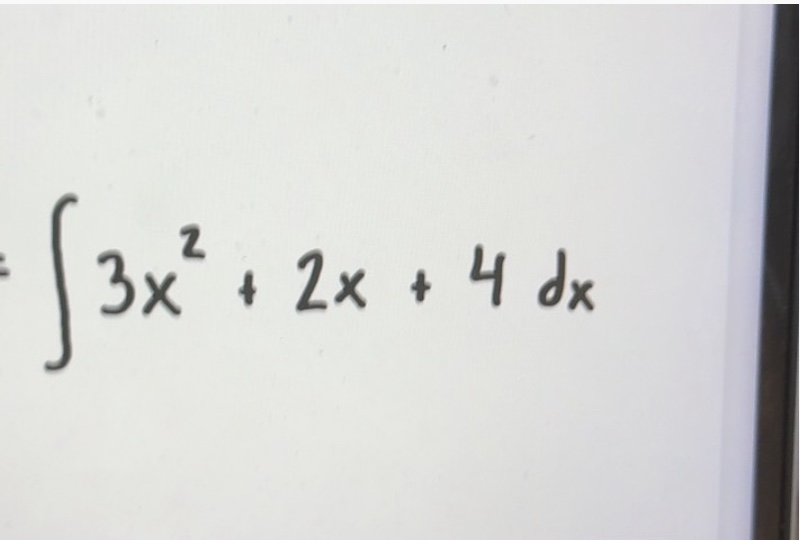
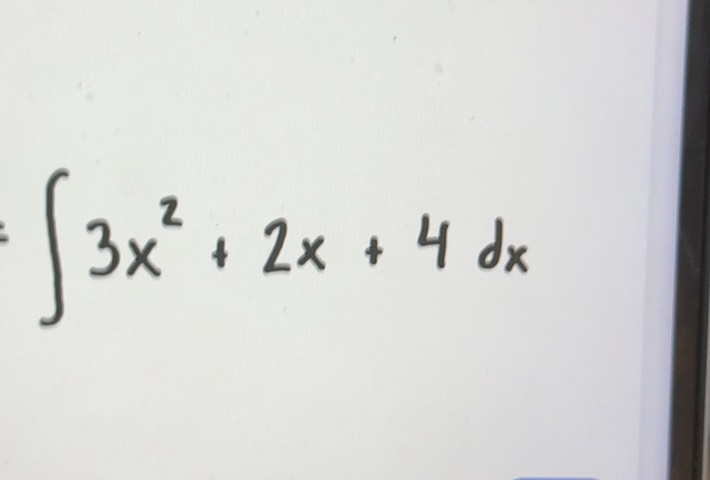
Write down what was found, and what it was found with
ENGINEERING-NOTES gains three sections: why a label and a question being
the same type is what let a photograph of an integral produce a lesson
about flatbed scanners, why the notation converter is checked by KaTeX
now instead of reviewed by a person, and what the camera arm measures
that the typed arms cannot.

evaluation.md gains the camera method, and an admission: the self-hosted
arm went out with the hosted backend and nothing noticed, so a published
three-arm comparison sat there for a week with no runnable method behind
it.

docs/evaluation-camera.md is report.py's stdout over
docs/eval-records/camera/, which now holds the graded Mac run and the
device transcript. check.sh diffs it like the other two, and asserts that
every camera fixture has both an image and its ground truth -- a picture
without ground truth is not a measurement, and a manifest entry without
its picture is a run that silently skips.

diff --git a/docs/ENGINEERING-NOTES.md b/docs/ENGINEERING-NOTES.md
@@ -155,6 +155,110 @@ The retry also stopped swallowing cancellation. `try? await Task.sleep` meant a
 user who navigated away still paid for the retry; it is `try await` now, so
 leaving the screen stops the work.
 
+## A label is not a question, and `String` cannot tell you which one it is
+
+The hardest bug in this repository to date presented as a model that had gone
+mad. A photograph of `∫ 3x² + 2x + 4 dx` produced a lesson titled *Understanding
+Scanning*, a topic line reading `SCANNING`, and five suggested videos called
+"Scanning", from Khan Academy and 3Blue1Brown. Nothing was wrong with the model.
+It was asked about the word.
+
+The app had four strings in play for one photographed solve:
+
+| string | where | what it was |
+|---|---|---|
+| `"Scanning..."` | `ContentView` | what the header said while the camera closed |
+| `"[Scanned Image]"` | the results view model | a sentinel other views compared against |
+| a model-written title | a detached task, seconds later | a *label* for the history list |
+| the text Vision read | inside a provider, per request | **the only one that was a question** |
+
+Every one of them was a `String`, so every one of them fitted wherever a problem
+was expected. Three of the four reached a prompt.
+
+The route was history. `Problem` had one text field, it held whichever label was
+current when the student backed out, and re-opening the entry set the solve's
+input to it -- so any tab that had not been generated the first time was
+generated from the label. The store on the phone this was found on has **six of
+nine rows carrying a label where the question should be**: one `"Scanning..."`,
+three `"Scanned Problem"` (the fallback when recognition failed), and two
+model-written titles. The last of those is the worst kind, because a lesson about
+"Augmented Matrix Vector Solution" is *plausible*, and nobody would photograph it
+and file a bug.
+
+Sanitising the strings would have been the obvious fix and the wrong one. What
+the code needed was for a label not to be the same *type* as a question:
+
+```swift
+struct Solve {
+    let id: UUID
+    let question: String     // the only string a prompt is ever built from
+    let source: Source       // .typed | .photograph(jpeg: Data)
+}
+```
+
+There is one initialiser, `SolveBuilder` is the only thing that calls it, and
+every prompt-taking API takes the question off it. `ProblemInput` is gone, so is
+`SightedProvider`, and so is image input on the provider protocol: after the
+builder there is no unresolved input left in the system. A display string now has
+no path into a prompt that type-checks.
+
+Two things fell out that were not the point and are worth more than they cost.
+Recognition moved *above* the four surfaces instead of below them, so a
+photograph is read once instead of five times -- the memo meant to prevent that
+had never once hit, because the app built a new wrapper per request. And a
+photograph nothing can be read from now fails on the camera screen, once, where
+taking another picture is the fix, rather than four times on a results screen the
+student has already been pushed to.
+
+## The converter is checked now, not reviewed
+
+`MathNotation` rewrites the notation Apple's on-device model writes -- it returns
+correct maths in the wrong form, `∫[0,1] 3x^2 dx`, and no amount of prompt
+wording changes that. It has also produced three separate corruption bugs:
+`\sqrt16` (the radical losing its argument), `\sine` (a function-name rule
+firing inside a word), and `\intx` (a control word with nothing terminating it).
+All three shipped. All three were found by a person looking at red text on a
+phone.
+
+The third one is instructive, because it was thirty bugs rather than one. The
+symbol table substituted Unicode operators for LaTeX commands with
+`replacingOccurrences`, and a LaTeX control word runs to the first non-letter --
+so `πr²` became `\pir^{2}`, `2πn` became `2\pin`, `Σx_i` became `\Sigmax_{i}`,
+and every entry in the table had the same fault. The quietest of them *rendered*:
+`∈f(x)` became `\inf(x)`, and `\inf` is a real command, the infimum, so the
+wrong symbol was drawn with nothing red to notice.
+
+And here is the part that decided the fix. **KaTeX renders every one of those
+Unicode characters as it stands.** `∫ x^{n} dx`, `πr^{2}`, `∑_{n=1}^{5} n`, `θ`,
+`∞`, `⋅`, `→`, `Δx`, `∂f/∂x` all parse under `throwOnError: true`. The converter
+was taking strings that rendered and producing strings that did not.
+
+A converter whose job is to improve something that already works has to be
+*checked*, and the thing that can check it is the renderer. So KaTeX is now the
+arbiter, in three places:
+
+- **`swift test`.** `KaTeXOracle` loads the app's own `katex.min.js` into a
+  `JSContext` -- `renderToString` needs no DOM -- and asserts two properties: that
+  every symbol in the table survives a letter after it, and that **no conversion
+  breaks a string that already rendered**, over the maths the model actually wrote
+  in the published records. Eight milliseconds to load the bundle, half a
+  millisecond a string. The second property found two live regressions in strings
+  from a shipped run.
+- **The page.** Display maths travels in a `data-tex` attribute on an empty
+  element and is typeset explicitly with `throwOnError: true`. When it throws, the
+  element becomes the source string in monospace with "could not be typeset --
+  shown as written" beneath it. Red text was the wrong failure mode: it reads as
+  *the maths* being wrong rather than *the rendering* having failed, and a student
+  cannot tell those apart.
+- **The harness.** Records carry each maths field twice, before and after
+  conversion, index-aligned, so `converterRegressions` is a column: how many
+  strings KaTeX accepted before we touched them and rejected after. All three
+  historical bugs would have appeared in it on the run that introduced them.
+
+The boundary bug is fixed too -- one scan, and a space after a command when a
+letter follows -- but that is no longer the thing standing between a student and
+red text.
+
 ## OCR runs before the network, and that is the point
 
 `OCRService` uses Vision's `VNRecognizeTextRequest` on device. The order matters
@@ -217,8 +321,47 @@ worked, and it was unreproducible by anyone else and broke the moment a layout
 moved. A launch argument is not clever, and it regenerates every image in the
 README with one command.
 
+## The camera path, finally measured
+
+Every published number in this repository came from typed text. The model is the
+same on both paths; what reaches it is not, and nothing recorded what Vision made
+of a photograph or checked it against anything. That is how a picture of an
+integral produced a lesson about flatbed scanners with every table still green.
+
+There are two arms now, because a Mac is not a phone and this repository has
+already been caught believing one about the other.
+
+`solvr-eval --set camera` reads photographs with their contents written down
+beside them, once each, through the same `SolveBuilder` the app uses, and then
+asks the graded surfaces about what came out. Recognition gets its own record:
+"the photo was misread" and "the model was wrong" are different failures with
+different fixes, and a run that averages over them is measuring neither.
+
+`-SolvrCameraSelfTest YES` does the same on the phone and one thing more. It
+builds the real page for each surface with the real `HTMLBuilder`, loads it into a
+real `WKWebView` with the vendored KaTeX, and reports how many strings the page
+could not typeset. A Node check can tell you a string parses; only that can tell
+you the page drew it. Fixtures are pushed into the app's container rather than
+bundled, so a Release build measures Release code with no test data compiled into
+it.
+
+The first fixture already says something the typed arm never could. Vision --
+both on a Mac and on the phone -- reads the handwritten integral sign as a bullet
+and drops the exponent, so `∫ 3x² + 2x + 4 dx` reaches the model as
+`• 3x + 2x + 4 dx`. The model then answers *that* problem, carefully, and gets it
+right for the question it was given. All four surfaces were asked the same thing
+and every display string typeset. **On this path the dominant failure is
+recognition, and it was invisible.**
+
+Which is why the app now shows the recognised text under the photograph. It is
+the only thing a student can check, and it is byte-for-byte what every tab was
+asked about.
+
 ## What is not solved
 
+- **Handwriting.** Vision reads printed problems well and handwriting unevenly,
+  and the measured case above is not a near miss -- an integral sign became a
+  bullet. Showing the student what was read is a mitigation, not a fix.
 - **No verification of the maths.** The app renders what the model says. A wrong
   step is displayed with the same confidence as a right one, and detecting that
   automatically is a genuinely hard problem, not an oversight.

diff --git a/docs/evaluation.md b/docs/evaluation.md
@@ -118,6 +118,39 @@ was committed, rather than trusted from the author.
 
 43 is small. It is reported as 43 rather than padded.
 
+## Photographs, which are a different measurement
+
+`--set camera` runs a set of photographs with their contents written down beside
+them, in `docs/fixtures/camera/`. It exists because every number above this line
+is about **typed** text, and the app's front door is a camera.
+
+The model is the same on both paths. What reaches it is not: Apple's on-device
+model takes no image input at all, so a photograph becomes text first, and that
+step had never been measured or even recorded. A picture of `∫ 3x² + 2x + 4 dx`
+produced a lesson about flatbed scanners while every table in this document
+stayed green.
+
+Three things are measured that the typed arms cannot be:
+
+- **What was read.** `expectedText` in the manifest is what a *correct reading*
+  gives, not what the model should answer, so recognition and solving are graded
+  separately. They are different failures with different fixes.
+- **Whether every surface of one solve was asked the same thing.** That is now a
+  property of a valid run rather than something to hope for, because the bug this
+  arm exists because of was four surfaces being asked four different questions.
+- **What the page drew.** The device arm builds each surface's real HTML, loads
+  it into a real `WKWebView` with the vendored KaTeX, and counts the strings it
+  could not typeset. Rendering a string in Node tells you it parses; only that
+  tells you the app drew it.
+
+One fixture in the set must *fail*: a photograph with nothing legible in it has
+to produce one honest sentence before a results screen exists. A harness that
+only measured the pictures that work would not notice if that stopped being true.
+
+Results: [evaluation-camera.md](evaluation-camera.md), from
+[docs/eval-records/camera/](eval-records/camera/), including the device
+transcript.
+
 ## The comparison this is set up to run
 
 The interesting axis is not "hosted versus local". It is **constrained versus
@@ -161,6 +194,18 @@ comparison, published in full, with no data behind it. Anyone quoting Solvr as
 evidence that on-device beats hosted — or loses to it — is quoting something that
 was never measured.
 
+**The self-hosted arm was very nearly lost the same way, and for a duller
+reason.** It went out with the hosted backend, and `compare3.sh` and `arm.sh`
+carried on calling `solvr-eval --backend local` with flags that had stopped
+existing — so the three-arm comparison this repository publishes had become
+unreproducible without anything saying so. A published result whose method is no
+longer in the repository is a number with no run behind it, which is the one
+thing this project is not supposed to have. The arm is back, in the `solvr-eval`
+target only, with the prompts recovered verbatim because the LoRA was distilled
+against those exact strings. It is not in the app and cannot be: `tools/check.sh`
+asserts that the network client appears nowhere under `Sources/` except that one
+directory, and that the app and the shipped library contain none.
+
 The first local three-arm comparison was also void, and the reason is worth
 recording: a port race left all three arms talking to the same server, so all
 three "models" produced 129 byte-identical outputs. Byte-identical answers across
@@ -198,6 +243,15 @@ process.
 ## Running it
 
 ```sh
+# The camera path. Needs no key and no network; the photographs are in the repo.
+swift run --package-path Packages/SolvrCore solvr-eval \
+  --backend on-device --set camera --images docs/fixtures/camera \
+  --out eval-camera.jsonl
+tools/eval/grade.sh eval-camera.jsonl
+
+# The same on the phone, which is the only authority on the phone. See
+# docs/fixtures/camera/README.md for the three devicectl lines.
+
 # Free: no key, no network, no spend. Validates the whole pipeline.
 cd Packages/SolvrCore && swift run solvr-eval --backend demo --out ../../eval-demo.jsonl
 

diff --git a/docs/evaluation-camera.md b/docs/evaluation-camera.md
@@ -1,0 +1,98 @@
+<!-- Generated by tools/eval/report.py from docs/eval-records/*.graded.jsonl.
+     Regenerate:  python3 tools/eval/report.py docs/eval-records/*.graded.jsonl
+     Do not edit by hand: this file is stdout, and a diff is the test. -->
+
+## Schema compliance, per surface
+
+Fraction of responses that decoded with nothing done to them -- no fence
+removed, no prose trimmed, no LaTeX escape repaired, no renormalisation.
+`n/a` is a backend that never produces a string to repair: guided
+generation returns a typed value, so the ladder is unreachable.
+
+| backend | steps | lesson | formulas |
+|---|---|---|---|
+| `macos-vision + apple-on-device` | n/a | n/a | n/a |
+
+## What had to be done, when it was not clean
+
+| backend | surface | fenced | prose sliced | escapes repaired | renormalised | failed to parse |
+|---|---|---|---|---|---|---|
+| `macos-vision + apple-on-device` | steps | 0 | 0 | 0 | 0 | 0 |
+| `macos-vision + apple-on-device` | lesson | 0 | 0 | 0 | 0 | 0 |
+| `macos-vision + apple-on-device` | formulas | 0 | 0 | 0 | 0 | 0 |
+
+## Maths correctness (final answer, symbolic equivalence)
+
+`undecidable` means the grader could not parse one side and the case
+needs a human, not that the answer was wrong.
+
+| backend | correct | wrong | undecidable |
+|---|---|---|---|
+| `macos-vision + apple-on-device` | 0% (0/1) | 1 | 0 |
+
+## Completeness: how much came back
+
+Median items per response -- steps in a solution, formulas listed,
+sections in a lesson. Schema compliance is blind to this: a one-step
+solution that decodes cleanly scores a perfect 100%, so a fine-tune that
+learns to answer tersely would look like an improvement.
+
+| backend | steps | lesson sections | formulas | thin (<=1 step) |
+|---|---|---|---|---|
+| `macos-vision + apple-on-device` | 3 | 2 | 4 | 0/1 |
+
+## LaTeX that renders
+
+Rendered with KaTeX 0.16.21 -- the version the app loads -- and
+`throwOnError: true`. The app itself renders with `throwOnError: false`,
+so in production these failures are silent.
+
+| backend | strings checked | render | fail |
+|---|---|---|---|
+| `macos-vision + apple-on-device` | 9 | 100% (9) | 0 |
+
+## What the notation converter did to maths that was already valid
+
+Every maths field is recorded twice: as the model wrote it, and as
+`MathNotation` rewrote it for display. This counts the strings KaTeX
+accepted before the rewrite and rejected after it. Three shipped bugs
+-- `\sqrt16`, `\sine`, `\intx` -- would all have appeared here on
+the run that introduced them.
+
+| backend | fields converted | made unrenderable |
+|---|---|---|
+| `macos-vision + apple-on-device` | 4 | 0 |
+
+## Latency and cost
+
+Requests were issued one at a time, so these are per-request latencies
+rather than what a user sees when four surfaces are fetched at once.
+Time to first token is **not** measured: the app does not stream, so
+there is no first token to time.
+
+| backend | median s | p90 s | in tok | out tok | est. USD |
+|---|---|---|---|---|---|
+| `macos-vision + apple-on-device` | 9.30 | 10.08 | n/a | n/a | n/a (on device) |
+
+## Reading the photograph
+
+What Vision made of each fixture, against what a correct reading
+gives. Recognition and solving are separate failures: a run that
+cannot tell "the photo was misread" from "the model was wrong" is
+averaging over the thing it was built to measure.
+
+| fixture | read exactly | what came out |
+|---|---|---|
+| `cam-int-01` | no | `• 3x + 2x + 4 dx` |
+
+Exact readings: 0/1. Refused as unreadable: 0.
+
+## Every surface of one solve was asked the same thing
+
+The bug this arm exists because of was four surfaces of one
+photographed solve being asked four different questions. It is now
+a property of a valid run rather than something to hope for.
+
+All 1 solves: one question each, across every surface.
+
+Records: 3. Problems: 1.
